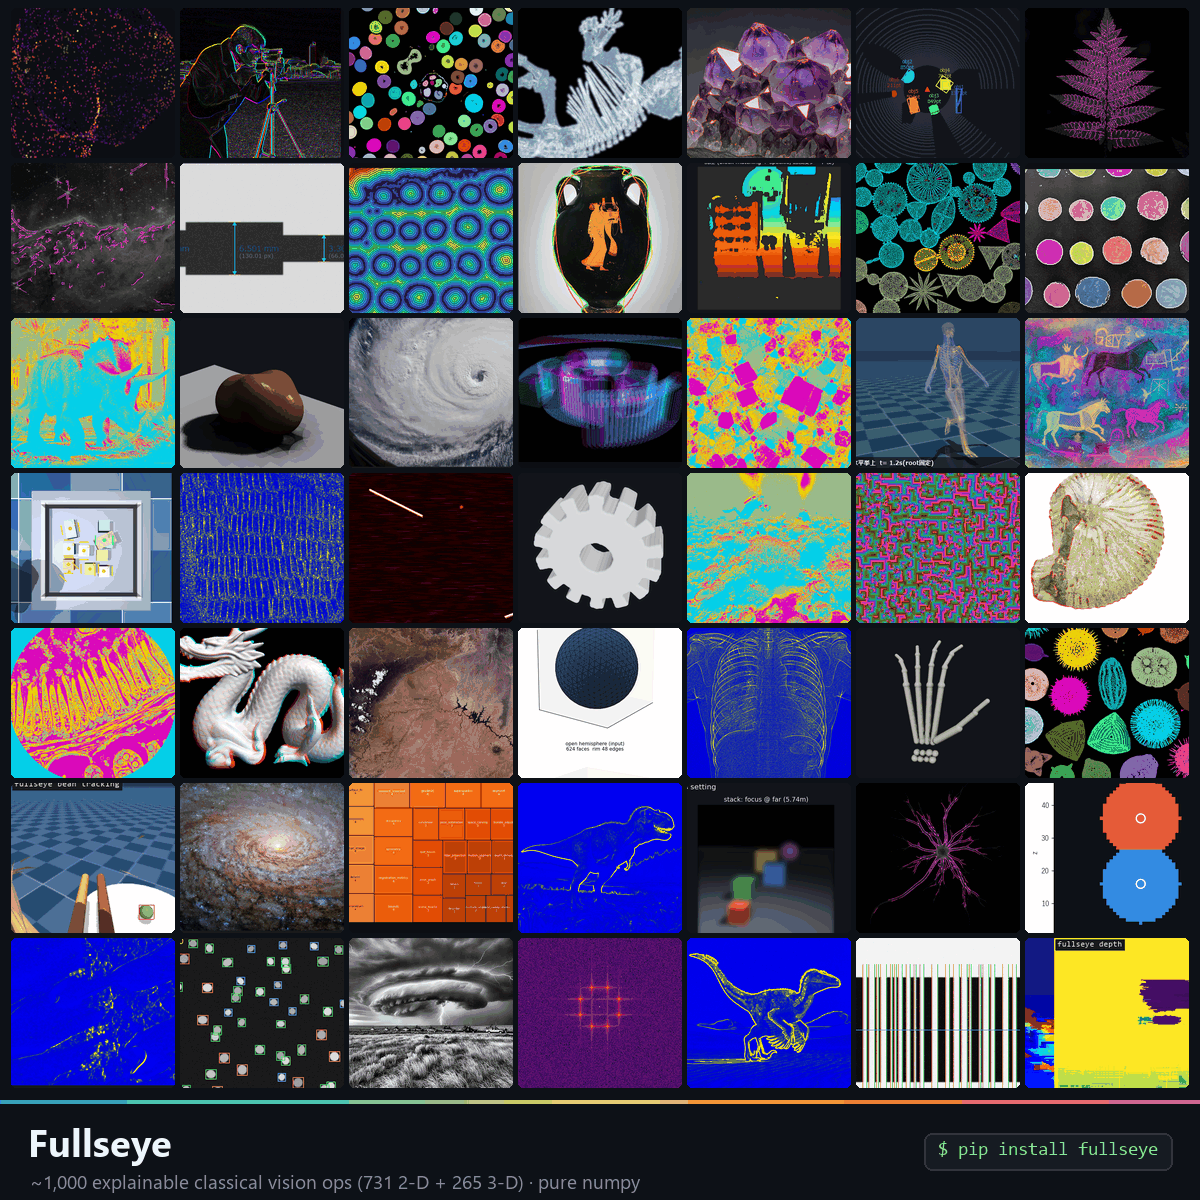
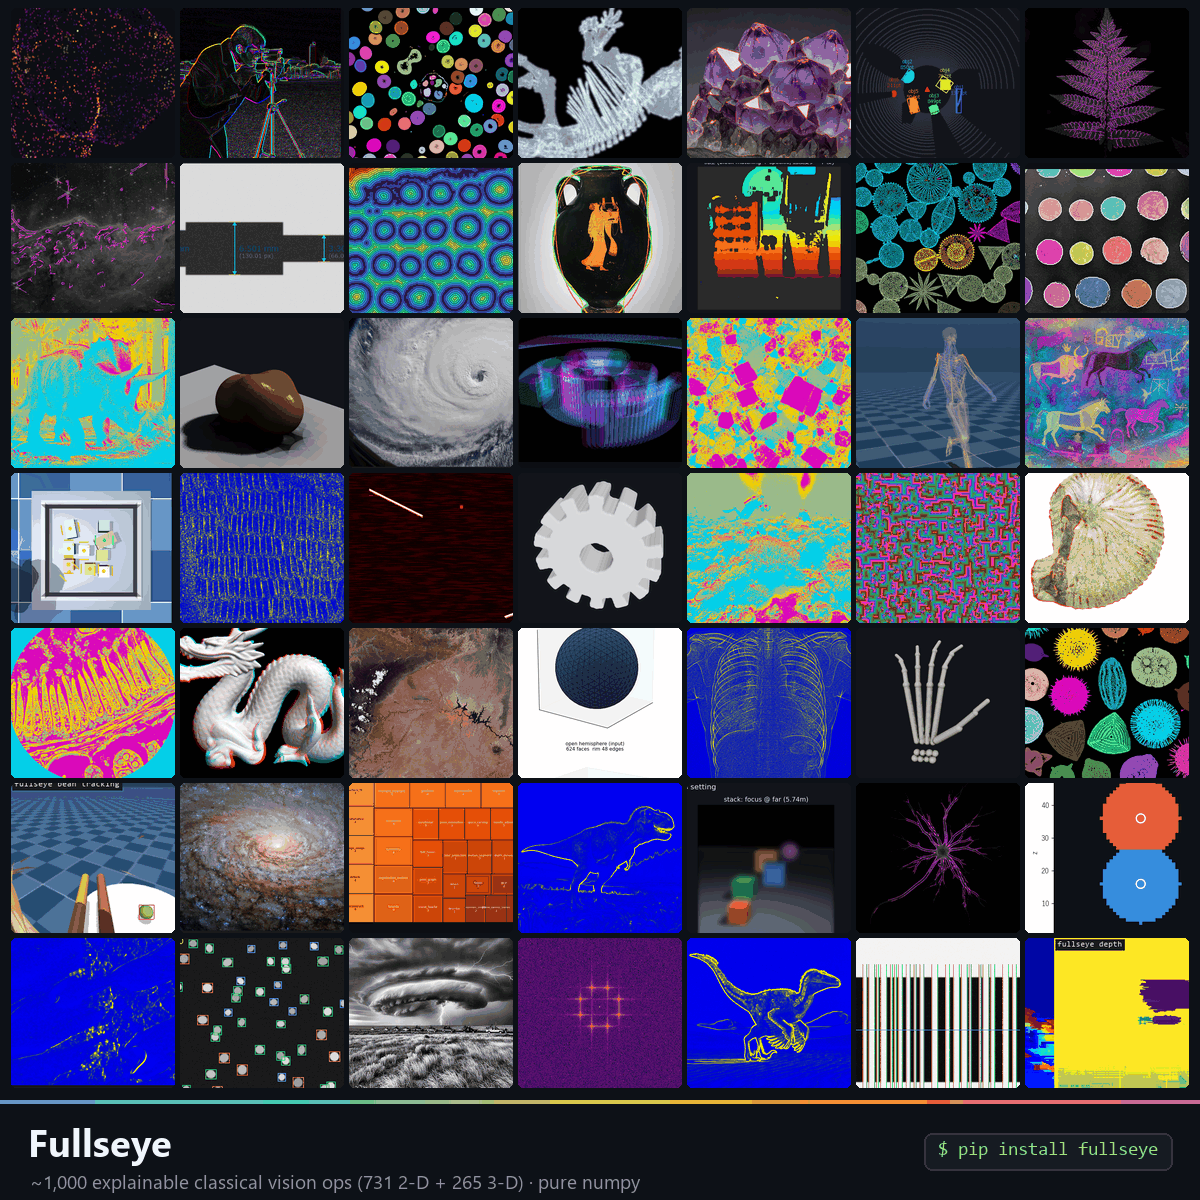
assets: LinkedIn投稿用の高密度モザイク fullseye_mosaic.png(7x7=49タイル、AI由来1/3以下assert)
Claude-Session: https://claude.ai/code/session_017NNFiEf6BurCoSMsQV4M6t

diff --git a/tools/gen_banner.py b/tools/gen_banner.py
@@ -146,7 +146,7 @@ MOSAIC_TILES = [
     ("academic_met_hurricane.png",  (0.000, 0.000, 0.230, 1.000), "real"),
     ("_sources/src_event_camera.png", (0.100, 0.200, 0.900, 1.000), "demo"),
     ("academic_geo_thin_section.png", (0.672, 0.000, 1.000, 1.000), "ai"),
-    ("evis_muscle_heatmap_still.png", (0.050, 0.160, 0.800, 1.000), "demo"),
+    ("evis_muscle_heatmap_still.png", (0.050, 0.140, 0.800, 0.870), "demo"),
     ("academic_arch_cave_painting.png", (0.339, 0.000, 0.661, 1.000), "ai"),
     # -- row 4 ------------------------------------------------------------
     ("phai_binpick.png",            (0.670, 0.000, 1.000, 0.910), "demo"),
